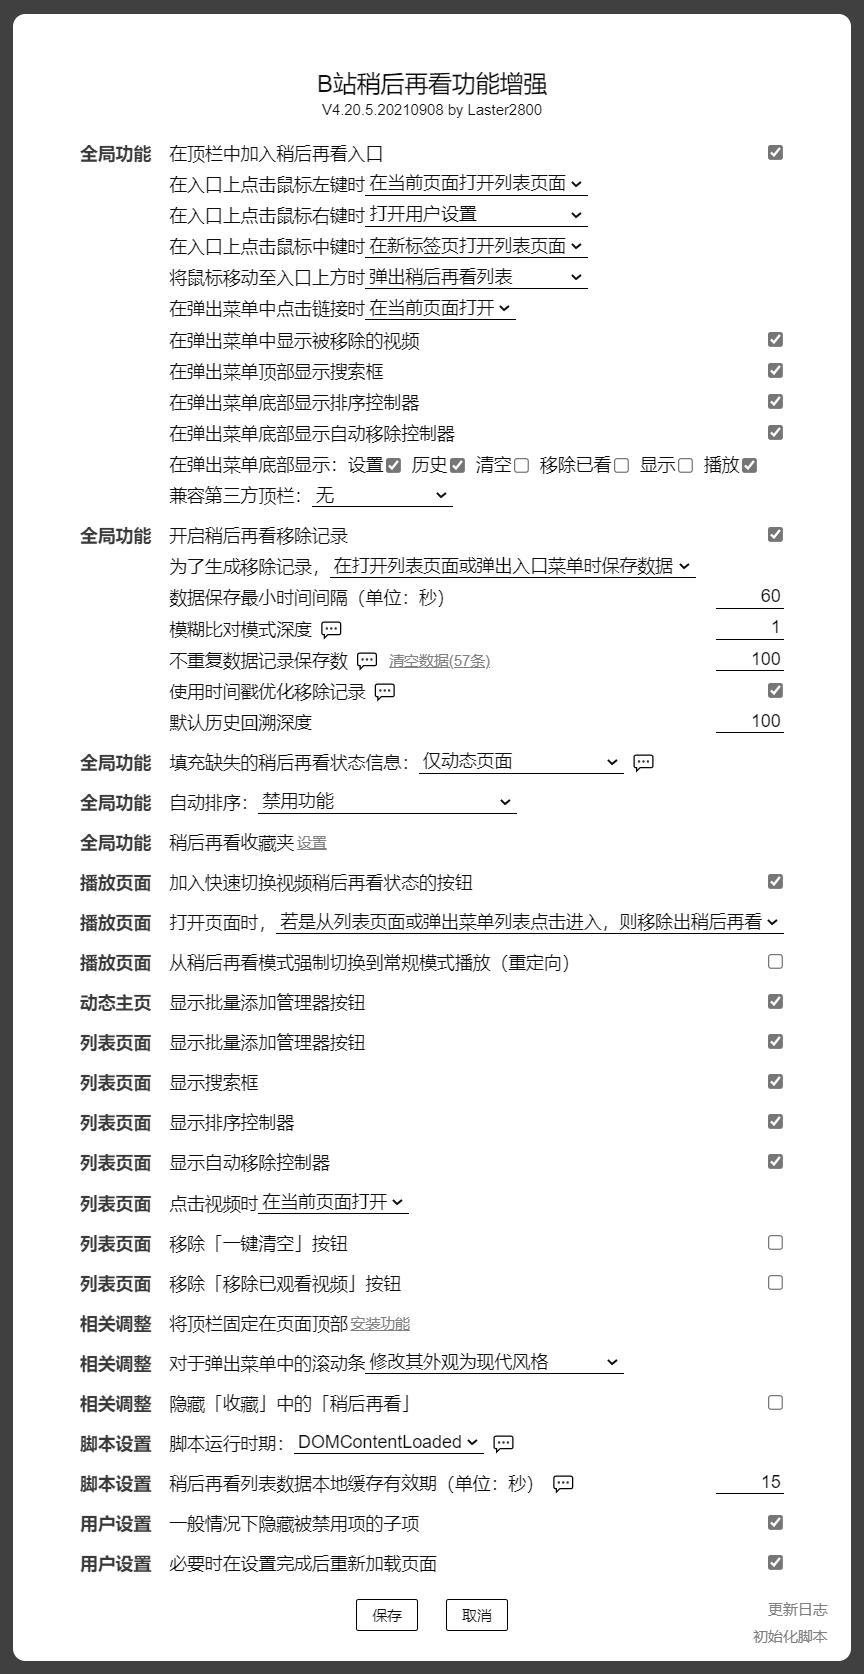
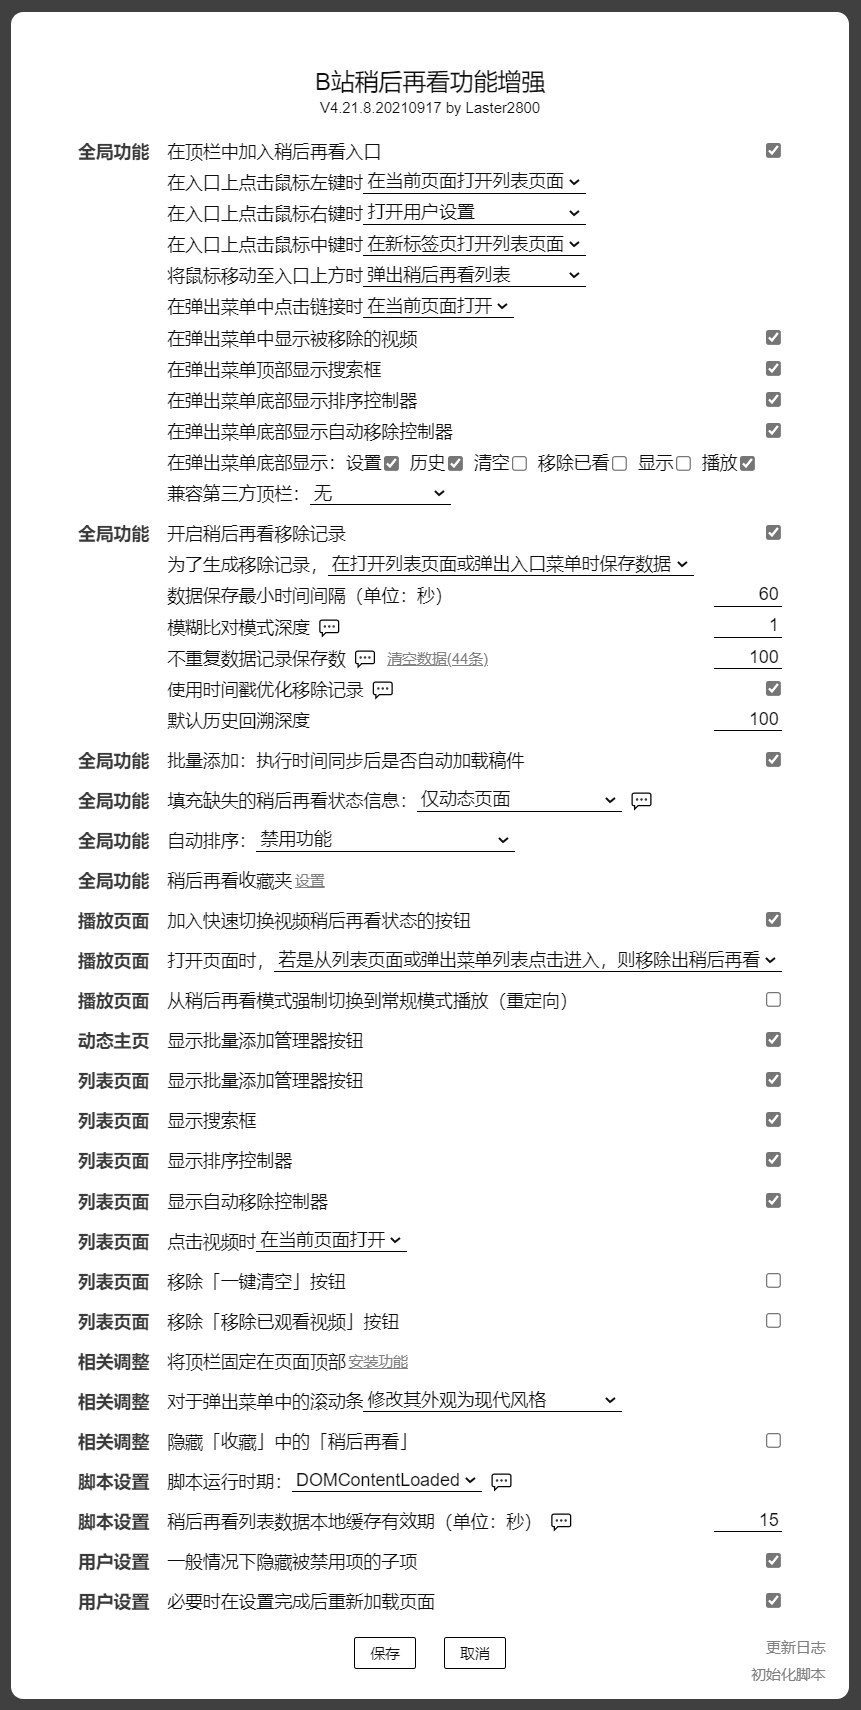
B站稍后再看功能增强 4.21.8.20210917
* 批量添加：增加时间同步功能，作用是将上一次成功执行添加步骤的时间同步到加载步骤中。

diff --git a/script/BilibiliWatchlaterPlus/BilibiliWatchlaterPlus.user.js b/script/BilibiliWatchlaterPlus/BilibiliWatchlaterPlus.user.js
@@ -1,6 +1,6 @@
 // ==UserScript==
 // @name            B站稍后再看功能增强
-// @version         4.21.7.20210915
+// @version         4.21.8.20210917
 // @namespace       laster2800
 // @author          Laster2800
 // @description     与稍后再看功能相关，一切你能想到和想不到的功能
@@ -220,6 +220,7 @@
    * @property {number} removeHistorySaves 稍后再看历史数据记录保存数
    * @property {boolean} removeHistoryTimestamp 使用时间戳优化移除记录
    * @property {number} removeHistorySearchTimes 历史回溯深度
+   * @property {boolean} batchAddLoadAfterTimeSync 批量添加：执行时间同步后是否自动加载稿件
    * @property {fillWatchlaterStatus} fillWatchlaterStatus 填充稍后再看状态
    * @property {autoSort} autoSort 自动排序
    * @property {boolean} videoButton 视频播放页稍后再看状态快速切换
@@ -371,7 +372,7 @@
   const gm = {
     id: gmId,
     configVersion: GM_getValue('configVersion'),
-    configUpdate: 20210915,
+    configUpdate: 20210917,
     searchParams: new URL(location.href).searchParams,
     config: {},
     configMap: {
@@ -399,6 +400,7 @@
       removeHistorySaves: { default: 100, type: 'int', attr: 'value', manual: true, needNotReload: true, min: 10, max: 500, configVersion: 20210808 },
       removeHistoryTimestamp: { default: true, attr: 'checked', needNotReload: true, configVersion: 20210703 },
       removeHistorySearchTimes: { default: 100, type: 'int', attr: 'value', manual: true, needNotReload: true, min: 1, max: 500, configVersion: 20210819 },
+      batchAddLoadAfterTimeSync: { default: true, attr: 'checked', configVersion: 20210917, needNotReload: true },
       fillWatchlaterStatus: { default: Enums.fillWatchlaterStatus.dynamic, attr: 'value', configVersion: 20200819 },
       autoSort: { default: Enums.autoSort.default, attr: 'value', configVersion: 20210819 },
       videoButton: { default: true, attr: 'checked' },
@@ -768,7 +770,7 @@
           }
 
           // 功能性更新后更新此处配置版本
-          if (gm.configVersion < 20210911) {
+          if (gm.configVersion < 20210917) {
             _self.openUserSetting(2)
           } else {
             gm.configVersion = gm.configUpdate
@@ -1047,6 +1049,16 @@
                         <span>默认历史回溯深度</span>
                         <input id="gm-removeHistorySearchTimes" type="text">
                       </div>
+                    </td>
+                  </tr>
+
+                  <tr class="gm-item" title="在批量添加管理器中，执行时间同步后，是否自动执行稿件加载步骤？">
+                    <td><div>全局功能</div></td>
+                    <td>
+                      <label>
+                        <span>批量添加：执行时间同步后是否自动加载稿件</span>
+                        <input id="gm-batchAddLoadAfterTimeSync" type="checkbox">
+                      </label>
                     </td>
                   </tr>
 
@@ -1822,6 +1834,7 @@
               </div>
               <div class="gm-items"></div>
               <div class="gm-bottom">
+                <button id="gm-last-add-time">时间同步</button>
                 <button id="gm-unchecked-display"></button>
                 <button id="gm-save-batch-params">保存参数</button>
                 <button id="gm-reset-batch-params">重置参数</button>
@@ -1834,6 +1847,7 @@
             el[`id${id}`] = gm.el.batchAddManager.querySelector(`#gm-batch-${id}`)
           }
           el.items = gm.el.batchAddManager.querySelector('.gm-items')
+          el.lastAddTime = gm.el.batchAddManager.querySelector('#gm-last-add-time')
           el.uncheckedDisplay = gm.el.batchAddManager.querySelector('#gm-unchecked-display')
           el.saveParams = gm.el.batchAddManager.querySelector('#gm-save-batch-params')
           el.resetParams = gm.el.batchAddManager.querySelector('#gm-reset-batch-params')
@@ -1854,6 +1868,27 @@
         const processItem = () => {
           gm.el.batchAddManager.fadeInDisplay = 'flex'
           el.shadow.addEventListener('click', () => script.closeMenuItem('batchAddManager'))
+
+          // 时间同步
+          const setLastAddTime = (time) => {
+            time ??= null
+            GM_setValue('batchLastAddTime', time)
+            el.lastAddTime.val = time
+            el.lastAddTime.title = `将上一次成功执行添加步骤的时间同步到加载步骤中${time ? `\n上次添加时间：${new Date(time).toLocaleString()}` : ''}`
+            el.lastAddTime.disabled = !time
+          }
+          setLastAddTime(GM_getValue('batchLastAddTime'))
+          el.lastAddTime.addEventListener('click', function() {
+            if (executing) return api.message.info('执行中，无法同步')
+            if (this.val == null) return
+            const secInterval = (Date.now() - this.val) / 1000
+            el.id1a.value = secInterval / el.id1b.value // 取精确时间要比向上取整好
+            if (gm.config.batchAddLoadAfterTimeSync) {
+              el.id1c.dispatchEvent(new Event('click'))
+            } else {
+              api.message.info(`已同步到 ${new Date(this.val).toLocaleString()}`)
+            }
+          })
 
           // 非选显示
           const setUncheckedDisplayText = () => {
@@ -1888,11 +1923,11 @@
               batchParams[`id${id}`] = el[`id${id}`].value
             }
             GM_setValue('batchParams', batchParams)
-            api.message.info('保存成功，重新加载页面后当前参数会被自动加载')
+            api.message.info('保存成功，重新加载页面后当前参数会被自动加载', { ms: 1800 })
           })
           el.resetParams.addEventListener('click', function() {
             GM_deleteValue('batchParams')
-            api.message.info('重置成功，重新加载页面后参数将加载默认值')
+            api.message.info('重置成功，重新加载页面后参数将加载默认值', { ms: 1800 })
           })
 
           let executing = false
@@ -2165,6 +2200,7 @@
                 available -= 1
                 await new Promise(resolve => setTimeout(resolve, v4a * (Math.random() + 0.5)))
               }
+              setLastAddTime(Date.now())
               api.message.info('批量添加：已将所有选定稿件添加到稍后再看', { ms: 1800 })
             } catch (e) {
               api.message.alert('执行失败：可能是因为该稿件不可用或稍后再看不支持该稿件类型（如互动视频），请尝试取消勾选当前列表中第一个选定的稿件后重新执行')

diff --git a/script/BilibiliWatchlaterPlus/changelog.md b/script/BilibiliWatchlaterPlus/changelog.md
@@ -10,16 +10,17 @@
 4. 移除记录：修复稍后再看历史数据容量无法更新，导致无法有效修改实际保存数修改的问题。
 5. 移除记录：修复不开启时间戳时，无法正确按「完全升序」排序的问题。
 6. 移除记录：零碎的问题修复及改进。
-7. 批量添加：切换时间单位会动态修改时间值。
-8. 批量添加：修复时间过滤步骤中，最大时间范围限制没有考虑时间单位的问题。
-9. 批量添加：批量添加管理器参数不再包含时间过滤步骤中的配置值。
-10. 重定向：开启后，列表页面中的稍后再看页链接会被替换为常规播放页链接。
-11. 重定向：不再停止原页面加载，因为这可能会引起已加载脚本执行错误，也许会造成意外的不良影响。
-12. 固定：右键点击固定按钮可以取消所有固定项。
-13. 弹出菜单：优化特殊情况下的排版，并增加标题悬浮提示。
-14. 脚本：优化初始化流程，避免页面停止加载导致的初始化错误。
-15. 脚本：移除脚本菜单「清空稍后再看历史数据」，以后需前往用户设置执行该操作。
-16. 代码：使用增强的代码规则。
+7. 批量添加：增加时间同步功能，作用是将上一次成功执行添加步骤的时间同步到加载步骤中。
+8. 批量添加：切换时间单位会动态修改时间值。
+9. 批量添加：修复时间过滤步骤中，最大时间范围限制没有考虑时间单位的问题。
+10. 批量添加：批量添加管理器参数不再包含时间过滤步骤中的配置值。
+11. 重定向：开启后，列表页面中的稍后再看页链接会被替换为常规播放页链接。
+12. 重定向：不再停止原页面加载，因为这可能会引起已加载脚本执行错误，也许会造成意外的不良影响。
+13. 固定：右键点击固定按钮可以取消所有固定项。
+14. 弹出菜单：优化特殊情况下的排版，并增加标题悬浮提示。
+15. 脚本：优化初始化流程，避免页面停止加载导致的初始化错误。
+16. 脚本：移除脚本菜单「清空稍后再看历史数据」，以后需前往用户设置执行该操作。
+17. 代码：使用增强的代码规则。
 
 ## V4.20
 
